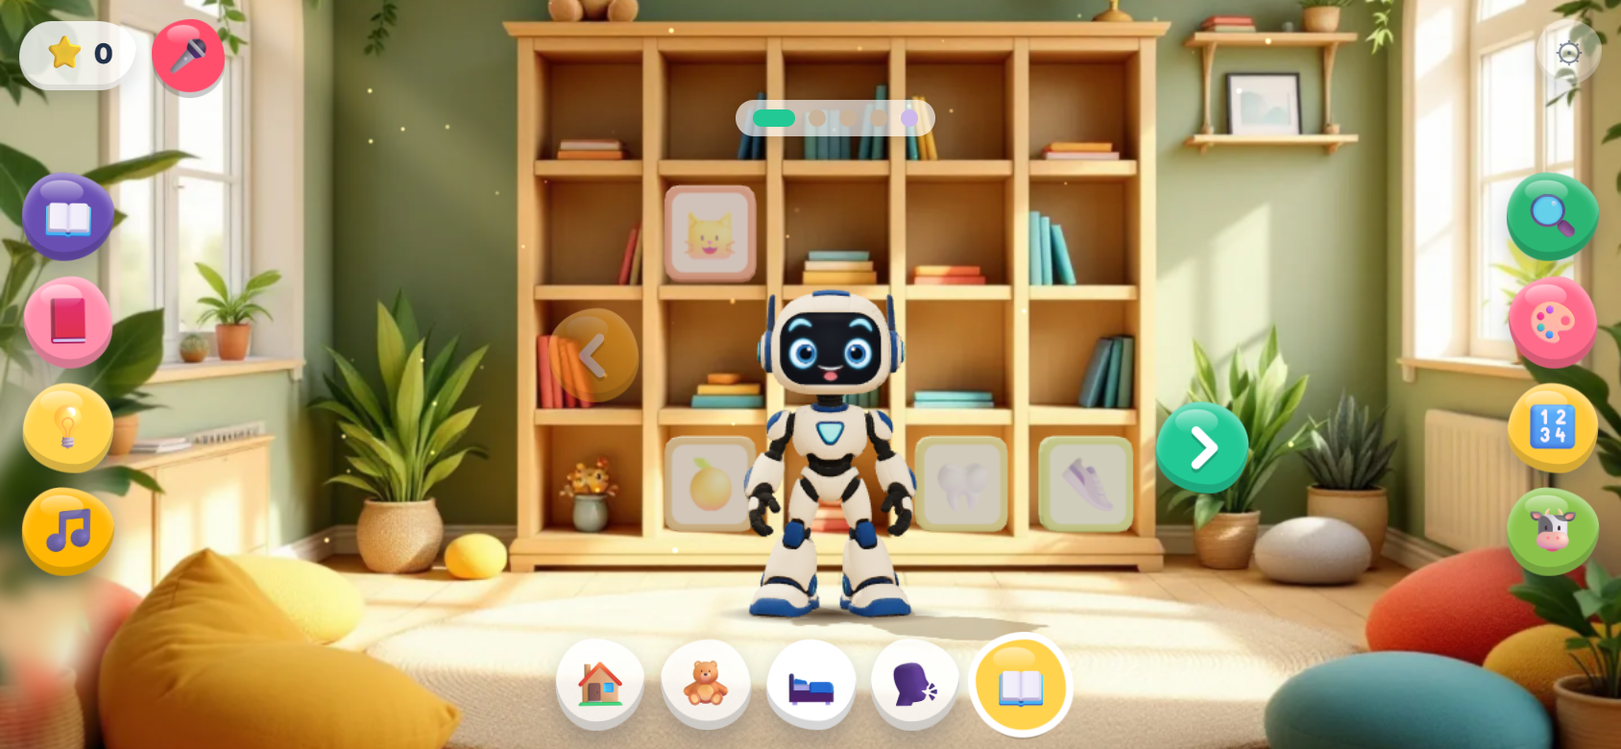
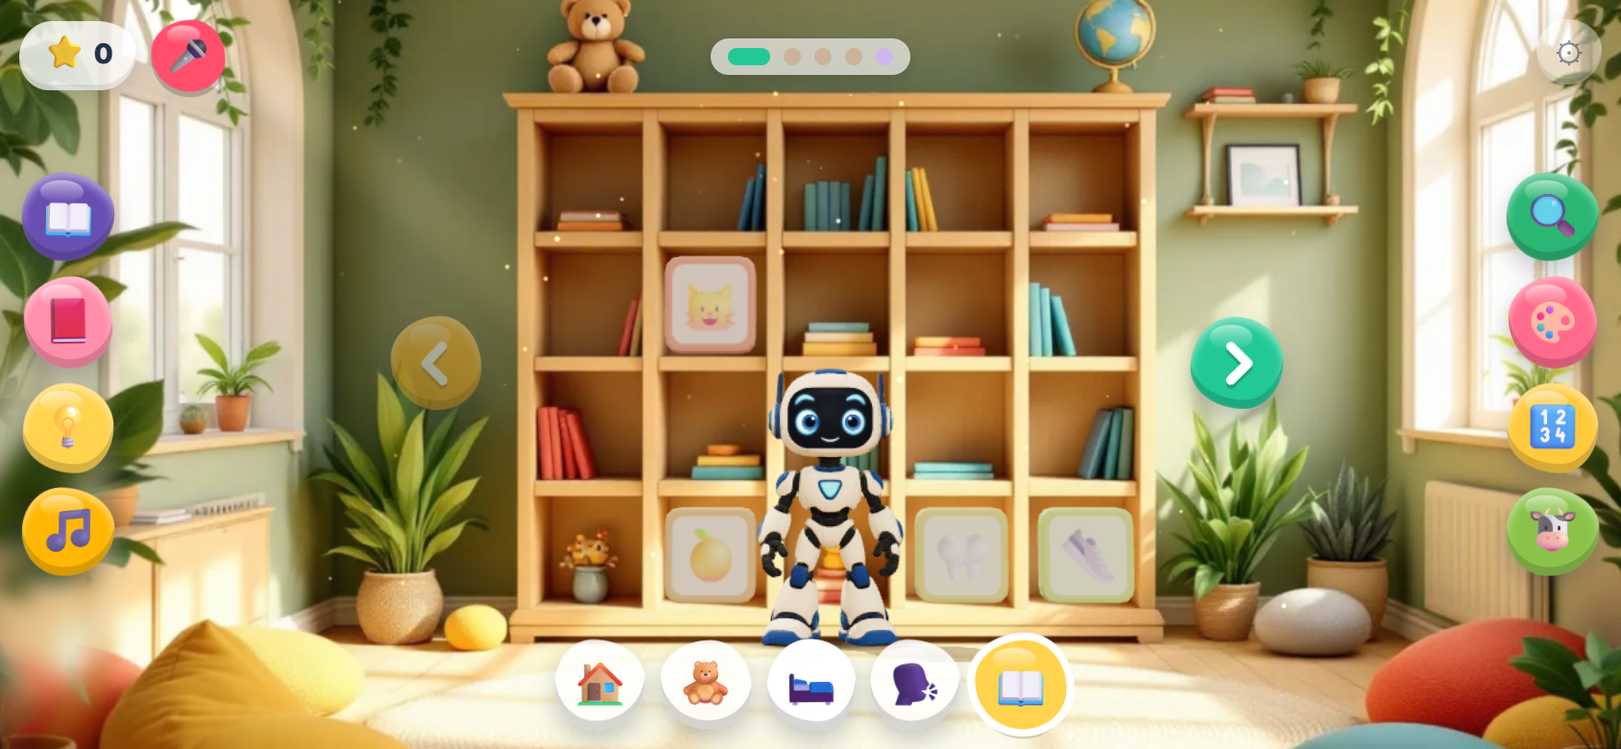
Painted library: page buttons clear of shelf and Googoo, dots in the top row, sideways teddy in view, book taps >= 46 px

diff --git a/index.html b/index.html
@@ -138,8 +138,8 @@ body.jelly .rb.jtap,body.jelly .ec.nav.jtap{animation:jtap .35s cubic-bezier(.3,
 @keyframes jtap{0%{transform:scale(1)}22%{transform:scale(.88,.84)}48%{transform:scale(1.1,1.05)}68%{transform:scale(.96,1.02)}85%{transform:scale(1.02,.99)}100%{transform:scale(1)}}
 @media (prefers-reduced-motion:reduce){body.jelly .rb,body.jelly .ec.nav,body.jelly .rb.jtap,body.jelly .ec.nav.jtap{animation:none}}
 /* painted rooms: shelf pages (jelly prev/next + dots beside the painted shelf), a blurred foreground crop of the painting at a screen corner */
-.pg{position:fixed;z-index:3;width:calc(var(--b)*.92);height:calc(var(--b)*.92)}.pg svg{width:55%;height:55%;filter:drop-shadow(0 2px 0 #0003)}
-#pgPrev{background:#ffae1f}#pgNext{background:#22c995}
+.pg{position:fixed;z-index:3;width:max(48px,calc(var(--b)*.92));height:max(48px,calc(var(--b)*.92))}.pg svg{width:55%;height:55%;filter:drop-shadow(0 2px 0 #0003)}
+#pgPrev,#pgNext{position:fixed}#pgPrev{background:#ffae1f}#pgNext{background:#22c995} /* fixed even as jelly blobs (body.jelly .rb is relative) */
 #pgDots{position:fixed;z-index:3;display:flex;gap:7px;padding:5px 9px;border-radius:20px;background:#ffffffa6;box-shadow:0 3px 8px #0002;transform:translateX(-50%);pointer-events:none}
 #pgDots i{width:9px;height:9px;border-radius:50%;background:#c9b49b;transition:width .3s,background .3s}#pgDots i.st{background:#cdb8ec}#pgDots i.on{width:22px;border-radius:6px;background:#22c995}#pgDots i.st.on{background:#a66cff}
 #pFg{position:fixed;z-index:1;pointer-events:none;background-repeat:no-repeat;filter:blur(6px) saturate(1.05) brightness(.92);transition:opacity .4s,filter .6s;will-change:transform;
@@ -1493,15 +1493,15 @@ function roomLayout(s){const W=WALLS[s]||{},hx=n=>'#'+n.toString(16).padStart(6,
 // Per picture, u,v = 0..1 of the picture from its top left: img, size [w,h] px, focus [u,v] (kept in view when the screen crops it: COVER fit, never bars),
 // fov (the painting's vertical field of view, degrees), horizon v (eye level: where the floor vanishes), wall v (where the back wall meets the floor: the shelf's depth),
 // goo [u,v,h] (his feet, his height as a part of the picture's height): with the horizon this sets the camera (height, tilt, distance) so the 3D floor lies on the painted one;
-// rug [u,v,ru,rv] (ellipse: the ball stays on it and in view), cells [[u0,v0,u1,v1]] (library: EMPTY shelf compartments, a book fills each), place {id:[u,v]} (3D props on the painted floor),
+// rug [u,v,ru,rv] (ellipse: the ball stays on it and in view), shelf [u0,v0,u1,v1] (library: the painted shelf, the ‹ › keep off it), cells [[u0,v0,u1,v1]] (library: EMPTY shelf compartments, a book fills each), place {id:[u,v]} (3D props on the painted floor),
 // light {sun:[colour,strength],dir:[x,y,z] from Googoo,hemi:[sky,ground,strength],fill:[colour,strength],shadow,exp}, beam [u,v,angle°,width,length,strength] (soft sunbeam),
 // dust [u0,v0,u1,v1] (sparkles), fg {crop:[u0,v0,u1,v1],at:'tl'|'tr'|'bl'|'br',h} (that crop, blurred, at a screen corner), lamps [[u,v,r]] (night glows), taps [{r:[u0,v0,u1,v1],w:'w_car'}]
 const PAINT={
-  library:{keep:[],portrait:{img:'assets/rooms/library_portrait.webp',size:[1056,1440],focus:[.519,.6],dots:[.519,.362],fov:50,horizon:.545,wall:.733,goo:[.5,.893,.24],rug:[.483,.838,.402,.078],
+  library:{keep:[],portrait:{img:'assets/rooms/library_portrait.webp',size:[1056,1440],focus:[.519,.6],shelf:[.3,.364,.729,.735],fov:50,horizon:.545,wall:.733,goo:[.5,.893,.24],rug:[.483,.838,.402,.078],
       cells:[[.456,.436,.573,.494],[.587,.436,.701,.494],[.336,.503,.443,.568],[.456,.503,.573,.568],[.336,.576,.443,.644],[.456,.576,.573,.644],[.587,.576,.701,.644]],
       light:{sun:['#ffd49a',1.35],dir:[-4,9,-3],hemi:['#fff1dc','#9a6a45',.7],fill:['#ffe6c8',.55],shadow:.38,exp:.95},beam:[.03,.27,52,.05,.95,.1],dust:[.18,.25,.85,.78],
       fg:{crop:[0,.06,.17,.44],at:'tl',h:.4},lamps:[[.22,.036,.06],[.79,.036,.06],[.27,.122,.05],[.739,.122,.05]]},
-    landscape:{img:'assets/rooms/library_landscape.webp',size:[1440,1056],focus:[.515,.6],fov:50,horizon:.62,wall:.762,goo:[.512,.8,.27],dots:[.515,.303],rug:[.531,.839,.309,.08],
+    landscape:{img:'assets/rooms/library_landscape.webp',size:[1440,1056],focus:[.515,.54],shelf:[.312,.303,.72,.758],fov:50,horizon:.62,wall:.762,goo:[.512,.766,.23],rug:[.531,.839,.309,.08],
       cells:[[.406,.434,.472,.526],[.406,.642,.472,.734],[.559,.642,.625,.734],[.635,.642,.701,.734]],
       light:{sun:['#ffd49a',1.35],dir:[-4,9,-3],hemi:['#fff1dc','#9a6a45',.7],fill:['#ffe6c8',.55],shadow:.38,exp:.95},beam:[.07,.18,40,.05,.9,.09],dust:[.2,.2,.8,.75],
       fg:{crop:[0,.42,.12,.92],at:'bl',h:.75},lamps:[]}},
@@ -1587,7 +1587,7 @@ function paintFrame(){const P=pOf(curRoom),key=P?curRoom+'|'+(portrait?'p':'l')+
   const keep=(PAINT[curRoom]||{}).keep||[];for(const id of keep){const g=furnById(id);if(!g)continue;const pl=(P.place||{})[id],p=pl&&onFloor(...S(pl[0],pl[1]));if(p){g.position.x=p.x;g.position.z=p.z}
     if(g.userData.m)g.userData.m.traverse(o=>{if(o.isMesh)o.castShadow=true})}
   // library: the empty compartments as rectangles on the wall plane (the books stand in them)
-  if(curRoom==='library'&&P.cells){PW.cells=P.cells.map(([u0,v0,u1,v1])=>{const a=onZ(...S(u0,v1),Zw),b=onZ(...S(u1,v0),Zw);return {x:(a.x+b.x)/2,y0:a.y,w:b.x-a.x,h:b.y-a.y,z:Zw}});
+  if(curRoom==='library'&&P.cells){PW.cells=P.cells.map(([u0,v0,u1,v1])=>{const a=onZ(...S(u0,v1),Zw),b=onZ(...S(u1,v0),Zw);return {x:(a.x+b.x)/2,y0:a.y,w:b.x-a.x,h:b.y-a.y,z:Zw,k:[Math.max(.98,46/((u1-u0)*pw)),Math.max(.98,46/((v1-v0)*ph))]}});
     const xs=P.cells.flatMap(c=>[c[0],c[2]]),ys=P.cells.flatMap(c=>[c[1],c[3]]),l=onZ(...S(Math.min(...xs),Math.max(...ys)),Zw),r=onZ(...S(Math.max(...xs),Math.max(...ys)),Zw);
     PW.shelf=[l.x-(r.x-l.x)*.02,r.x+(r.x-l.x)*.02];PW.box=[S(Math.min(...xs),Math.min(...ys)),S(Math.max(...xs),Math.max(...ys))];paintPagesCalc();paintBooks()}
   const pb=PW.anc.clone().project(camera);PW.wb=[(pb.x+1)/2*w,(1-pb.y)/2*h];PW.dist=PW.anc.distanceTo(camera.position);
@@ -1607,7 +1607,7 @@ function paintPagesCalc(){const A=libAssign(),n=Math.max(1,PW.cells.length),pg=[
 const _z0=new THREE.Matrix4().makeScale(0,0,0),_pm=new THREE.Matrix4(),_ps=V3();
 function paintBookSet(p,dx){(libPages[p]||[]).forEach((key,j)=>{const c=PW.cells[j],i=libIdx[key];if(!c||i===undefined)return;
   const bh=c.h*.86,bw=Math.min(c.w*.84,bh*1.02),bt=bw*.24,P=POSE[i]||(POSE[i]={p:V3(),q:new THREE.Quaternion(),bw:0,bh:0,bt:0});P.bw=bw;P.bh=bh;P.bt=bt;P.p.set(c.x+dx,c.y0+c.h*.035+bh/2,c.z+bt/2+.02);libPose[i]=P;
-  if(!libSlide)libHit.setMatrixAt(i,_pm.compose(_ps.set(c.x,c.y0+c.h/2,c.z+bt/2),P.q,_pv.set(c.w*.98,c.h*.98,bt*1.5))); // tap box = the whole compartment
+  if(!libSlide)libHit.setMatrixAt(i,_pm.compose(_ps.set(c.x,c.y0+c.h/2,c.z+bt/2),P.q,_pv.set(c.w*c.k[0],c.h*c.k[1],bt*1.5))); // tap box = the whole compartment, at least 46 px
   if(i!==libHide)libMesh.setMatrixAt(i,_pm.compose(P.p,P.q,_ps.set(bw,bh,bt)))})}
 function paintBooks(){if(!libMesh||!paintLib())return;for(let i=0;i<libItems.length;i++){libMesh.setMatrixAt(i,_z0);if(!libSlide)libHit.setMatrixAt(i,_z0)}libPose=[];
   if(libSlide){const e=libSlide.e,W=(PW.shelf[1]-PW.shelf[0])*1.08;paintBookSet(libSlide.from,-libSlide.dir*W*e);paintBookSet(libPage,libSlide.dir*W*(1-e))}else paintBookSet(libPage,0);
@@ -1615,14 +1615,15 @@ function paintBooks(){if(!libMesh||!paintLib())return;for(let i=0;i<libItems.len
 function paintPage(n,instant){if(!paintLib()||libSlide||n<0||n>=libPages.length||n===libPage)return;const from=libPage;libPage=n;
   if(!instant){libSlide={from,dir:n>from?1:-1,t0:performance.now(),e:0};clipL.constant=-PW.shelf[0];clipR.constant=PW.shelf[1];SFX.beep()}paintBooks();paintUI()}
 function paintShow(i){const it=libItems[i];if(!it||!paintLib())return;libSel=i;const p=libPages.findIndex(pg=>pg.includes(it.key));if(p>=0&&p!==libPage){libSlide=null;libPage=p;clipL.constant=clipR.constant=1e6;paintBooks();paintUI()}}
-// jelly prev/next beside the shelf (inside the rails), dots above it; only on the shelf screen
+// jelly prev/next beside the painted shelf at mid-height (room inside the rails), else low at the screen sides above the tabs; dots in the top row (score .. parent button)
 function paintUI(){const on=paintLib()&&scr==='library'&&deck.hidden&&libPages.length>1&&!pagePic;pgPrev.hidden=pgNext.hidden=pgDots.hidden=!on;if(!on)return;
-  const [[x0,y0],[x1,y1]]=PW.box,bs=pgPrev.offsetWidth||44,sf=safeIns(),rl=document.getElementById('colL').getBoundingClientRect(),rr=document.getElementById('colR').getBoundingClientRect(),
-    cl=(v,a,b)=>Math.max(a,Math.min(b,v)),side=x0-bs-10>(rl.right||sf.l)+6&&x1+bs+10<(rr.left||innerWidth-sf.r)-6, // room beside the shelf? else just under its sides
-    yb=side?(y0+y1)/2-bs/2:Math.max(y1+8,PW.S(0,PNT.wall||0)[1]-bs*.7);
-  pgPrev.style.left=cl(side?x0-bs-10:x0,sf.l+4,innerWidth-sf.r-bs-4)+'px';pgNext.style.left=cl(side?x1+10:x1-bs,sf.l+4,innerWidth-sf.r-bs-4)+'px';pgPrev.style.top=pgNext.style.top=yb+'px';
+  const [[x0,y0],[x1,y1]]=PNT.shelf?[PW.S(PNT.shelf[0],PNT.shelf[1]),PW.S(PNT.shelf[2],PNT.shelf[3])]:PW.box,bs=pgPrev.offsetWidth||48,sf=safeIns(),W=innerWidth,
+    rl=document.getElementById('colL').getBoundingClientRect(),rr=document.getElementById('colR').getBoundingClientRect(),nt=document.getElementById('nav').getBoundingClientRect().top||innerHeight,
+    side=x0-bs-12>(rl.right||sf.l)+6&&x1+bs+12<(rr.left||W-sf.r)-6;
+  pgPrev.style.left=(side?x0-bs-12:sf.l+12)+'px';pgNext.style.left=(side?x1+12:W-sf.r-12-bs)+'px';pgPrev.style.top=pgNext.style.top=(side?(y0+y1)/2-bs/2:nt-bs-14)+'px';
   pgPrev.style.opacity=libPage>0?1:.45;pgNext.style.opacity=libPage<libPages.length-1?1:.45;
-  const dp=PNT.dots?PW.S(PNT.dots[0],PNT.dots[1]):[(x0+x1)/2,y0-30];pgDots.style.left=dp[0]+'px';pgDots.style.top=Math.max(sf.t+52,dp[1]-10)+'px';[...pgDots.children].forEach((d,i)=>d.classList.toggle('on',i===libPage))}
+  const tp=document.getElementById('top').getBoundingClientRect(),dw=pgDots.offsetWidth;pgDots.style.left=Math.max(W/2,tp.right+10+dw/2)+'px';pgDots.style.top=(tp.top+tp.height/2-pgDots.offsetHeight/2)+'px';
+  [...pgDots.children].forEach((d,i)=>d.classList.toggle('on',i===libPage))}
 pgPrev.onclick=()=>{st.lastPoke=performance.now();paintPage(libPage-1)};pgNext.onclick=()=>{st.lastPoke=performance.now();paintPage(libPage+1)};
 // a tap on the painting: a painted toy says its word (play room), if there is a clip for it
 function paintTap(x,y){if(!PNT||!PW||!PW.taps.length)return false;const z=pU.uZ.value,T=pU.uT.value,M=pU.uM.value,u=(T.x+(x-T.z)/z-M.x)/M.z,v=(T.y+(y-T.w)/z-M.y)/M.w;

diff --git a/src_pash-robot.html b/src_pash-robot.html
@@ -137,8 +137,8 @@ body.jelly .rb.jtap,body.jelly .ec.nav.jtap{animation:jtap .35s cubic-bezier(.3,
 @keyframes jtap{0%{transform:scale(1)}22%{transform:scale(.88,.84)}48%{transform:scale(1.1,1.05)}68%{transform:scale(.96,1.02)}85%{transform:scale(1.02,.99)}100%{transform:scale(1)}}
 @media (prefers-reduced-motion:reduce){body.jelly .rb,body.jelly .ec.nav,body.jelly .rb.jtap,body.jelly .ec.nav.jtap{animation:none}}
 /* painted rooms: shelf pages (jelly prev/next + dots beside the painted shelf), a blurred foreground crop of the painting at a screen corner */
-.pg{position:fixed;z-index:3;width:calc(var(--b)*.92);height:calc(var(--b)*.92)}.pg svg{width:55%;height:55%;filter:drop-shadow(0 2px 0 #0003)}
-#pgPrev{background:#ffae1f}#pgNext{background:#22c995}
+.pg{position:fixed;z-index:3;width:max(48px,calc(var(--b)*.92));height:max(48px,calc(var(--b)*.92))}.pg svg{width:55%;height:55%;filter:drop-shadow(0 2px 0 #0003)}
+#pgPrev,#pgNext{position:fixed}#pgPrev{background:#ffae1f}#pgNext{background:#22c995} /* fixed even as jelly blobs (body.jelly .rb is relative) */
 #pgDots{position:fixed;z-index:3;display:flex;gap:7px;padding:5px 9px;border-radius:20px;background:#ffffffa6;box-shadow:0 3px 8px #0002;transform:translateX(-50%);pointer-events:none}
 #pgDots i{width:9px;height:9px;border-radius:50%;background:#c9b49b;transition:width .3s,background .3s}#pgDots i.st{background:#cdb8ec}#pgDots i.on{width:22px;border-radius:6px;background:#22c995}#pgDots i.st.on{background:#a66cff}
 #pFg{position:fixed;z-index:1;pointer-events:none;background-repeat:no-repeat;filter:blur(6px) saturate(1.05) brightness(.92);transition:opacity .4s,filter .6s;will-change:transform;
@@ -1492,15 +1492,15 @@ function roomLayout(s){const W=WALLS[s]||{},hx=n=>'#'+n.toString(16).padStart(6,
 // Per picture, u,v = 0..1 of the picture from its top left: img, size [w,h] px, focus [u,v] (kept in view when the screen crops it: COVER fit, never bars),
 // fov (the painting's vertical field of view, degrees), horizon v (eye level: where the floor vanishes), wall v (where the back wall meets the floor: the shelf's depth),
 // goo [u,v,h] (his feet, his height as a part of the picture's height): with the horizon this sets the camera (height, tilt, distance) so the 3D floor lies on the painted one;
-// rug [u,v,ru,rv] (ellipse: the ball stays on it and in view), cells [[u0,v0,u1,v1]] (library: EMPTY shelf compartments, a book fills each), place {id:[u,v]} (3D props on the painted floor),
+// rug [u,v,ru,rv] (ellipse: the ball stays on it and in view), shelf [u0,v0,u1,v1] (library: the painted shelf, the ‹ › keep off it), cells [[u0,v0,u1,v1]] (library: EMPTY shelf compartments, a book fills each), place {id:[u,v]} (3D props on the painted floor),
 // light {sun:[colour,strength],dir:[x,y,z] from Googoo,hemi:[sky,ground,strength],fill:[colour,strength],shadow,exp}, beam [u,v,angle°,width,length,strength] (soft sunbeam),
 // dust [u0,v0,u1,v1] (sparkles), fg {crop:[u0,v0,u1,v1],at:'tl'|'tr'|'bl'|'br',h} (that crop, blurred, at a screen corner), lamps [[u,v,r]] (night glows), taps [{r:[u0,v0,u1,v1],w:'w_car'}]
 const PAINT={
-  library:{keep:[],portrait:{img:'assets/rooms/library_portrait.webp',size:[1056,1440],focus:[.519,.6],dots:[.519,.362],fov:50,horizon:.545,wall:.733,goo:[.5,.893,.24],rug:[.483,.838,.402,.078],
+  library:{keep:[],portrait:{img:'assets/rooms/library_portrait.webp',size:[1056,1440],focus:[.519,.6],shelf:[.3,.364,.729,.735],fov:50,horizon:.545,wall:.733,goo:[.5,.893,.24],rug:[.483,.838,.402,.078],
       cells:[[.456,.436,.573,.494],[.587,.436,.701,.494],[.336,.503,.443,.568],[.456,.503,.573,.568],[.336,.576,.443,.644],[.456,.576,.573,.644],[.587,.576,.701,.644]],
       light:{sun:['#ffd49a',1.35],dir:[-4,9,-3],hemi:['#fff1dc','#9a6a45',.7],fill:['#ffe6c8',.55],shadow:.38,exp:.95},beam:[.03,.27,52,.05,.95,.1],dust:[.18,.25,.85,.78],
       fg:{crop:[0,.06,.17,.44],at:'tl',h:.4},lamps:[[.22,.036,.06],[.79,.036,.06],[.27,.122,.05],[.739,.122,.05]]},
-    landscape:{img:'assets/rooms/library_landscape.webp',size:[1440,1056],focus:[.515,.6],fov:50,horizon:.62,wall:.762,goo:[.512,.8,.27],dots:[.515,.303],rug:[.531,.839,.309,.08],
+    landscape:{img:'assets/rooms/library_landscape.webp',size:[1440,1056],focus:[.515,.54],shelf:[.312,.303,.72,.758],fov:50,horizon:.62,wall:.762,goo:[.512,.766,.23],rug:[.531,.839,.309,.08],
       cells:[[.406,.434,.472,.526],[.406,.642,.472,.734],[.559,.642,.625,.734],[.635,.642,.701,.734]],
       light:{sun:['#ffd49a',1.35],dir:[-4,9,-3],hemi:['#fff1dc','#9a6a45',.7],fill:['#ffe6c8',.55],shadow:.38,exp:.95},beam:[.07,.18,40,.05,.9,.09],dust:[.2,.2,.8,.75],
       fg:{crop:[0,.42,.12,.92],at:'bl',h:.75},lamps:[]}},
@@ -1586,7 +1586,7 @@ function paintFrame(){const P=pOf(curRoom),key=P?curRoom+'|'+(portrait?'p':'l')+
   const keep=(PAINT[curRoom]||{}).keep||[];for(const id of keep){const g=furnById(id);if(!g)continue;const pl=(P.place||{})[id],p=pl&&onFloor(...S(pl[0],pl[1]));if(p){g.position.x=p.x;g.position.z=p.z}
     if(g.userData.m)g.userData.m.traverse(o=>{if(o.isMesh)o.castShadow=true})}
   // library: the empty compartments as rectangles on the wall plane (the books stand in them)
-  if(curRoom==='library'&&P.cells){PW.cells=P.cells.map(([u0,v0,u1,v1])=>{const a=onZ(...S(u0,v1),Zw),b=onZ(...S(u1,v0),Zw);return {x:(a.x+b.x)/2,y0:a.y,w:b.x-a.x,h:b.y-a.y,z:Zw}});
+  if(curRoom==='library'&&P.cells){PW.cells=P.cells.map(([u0,v0,u1,v1])=>{const a=onZ(...S(u0,v1),Zw),b=onZ(...S(u1,v0),Zw);return {x:(a.x+b.x)/2,y0:a.y,w:b.x-a.x,h:b.y-a.y,z:Zw,k:[Math.max(.98,46/((u1-u0)*pw)),Math.max(.98,46/((v1-v0)*ph))]}});
     const xs=P.cells.flatMap(c=>[c[0],c[2]]),ys=P.cells.flatMap(c=>[c[1],c[3]]),l=onZ(...S(Math.min(...xs),Math.max(...ys)),Zw),r=onZ(...S(Math.max(...xs),Math.max(...ys)),Zw);
     PW.shelf=[l.x-(r.x-l.x)*.02,r.x+(r.x-l.x)*.02];PW.box=[S(Math.min(...xs),Math.min(...ys)),S(Math.max(...xs),Math.max(...ys))];paintPagesCalc();paintBooks()}
   const pb=PW.anc.clone().project(camera);PW.wb=[(pb.x+1)/2*w,(1-pb.y)/2*h];PW.dist=PW.anc.distanceTo(camera.position);
@@ -1606,7 +1606,7 @@ function paintPagesCalc(){const A=libAssign(),n=Math.max(1,PW.cells.length),pg=[
 const _z0=new THREE.Matrix4().makeScale(0,0,0),_pm=new THREE.Matrix4(),_ps=V3();
 function paintBookSet(p,dx){(libPages[p]||[]).forEach((key,j)=>{const c=PW.cells[j],i=libIdx[key];if(!c||i===undefined)return;
   const bh=c.h*.86,bw=Math.min(c.w*.84,bh*1.02),bt=bw*.24,P=POSE[i]||(POSE[i]={p:V3(),q:new THREE.Quaternion(),bw:0,bh:0,bt:0});P.bw=bw;P.bh=bh;P.bt=bt;P.p.set(c.x+dx,c.y0+c.h*.035+bh/2,c.z+bt/2+.02);libPose[i]=P;
-  if(!libSlide)libHit.setMatrixAt(i,_pm.compose(_ps.set(c.x,c.y0+c.h/2,c.z+bt/2),P.q,_pv.set(c.w*.98,c.h*.98,bt*1.5))); // tap box = the whole compartment
+  if(!libSlide)libHit.setMatrixAt(i,_pm.compose(_ps.set(c.x,c.y0+c.h/2,c.z+bt/2),P.q,_pv.set(c.w*c.k[0],c.h*c.k[1],bt*1.5))); // tap box = the whole compartment, at least 46 px
   if(i!==libHide)libMesh.setMatrixAt(i,_pm.compose(P.p,P.q,_ps.set(bw,bh,bt)))})}
 function paintBooks(){if(!libMesh||!paintLib())return;for(let i=0;i<libItems.length;i++){libMesh.setMatrixAt(i,_z0);if(!libSlide)libHit.setMatrixAt(i,_z0)}libPose=[];
   if(libSlide){const e=libSlide.e,W=(PW.shelf[1]-PW.shelf[0])*1.08;paintBookSet(libSlide.from,-libSlide.dir*W*e);paintBookSet(libPage,libSlide.dir*W*(1-e))}else paintBookSet(libPage,0);
@@ -1614,14 +1614,15 @@ function paintBooks(){if(!libMesh||!paintLib())return;for(let i=0;i<libItems.len
 function paintPage(n,instant){if(!paintLib()||libSlide||n<0||n>=libPages.length||n===libPage)return;const from=libPage;libPage=n;
   if(!instant){libSlide={from,dir:n>from?1:-1,t0:performance.now(),e:0};clipL.constant=-PW.shelf[0];clipR.constant=PW.shelf[1];SFX.beep()}paintBooks();paintUI()}
 function paintShow(i){const it=libItems[i];if(!it||!paintLib())return;libSel=i;const p=libPages.findIndex(pg=>pg.includes(it.key));if(p>=0&&p!==libPage){libSlide=null;libPage=p;clipL.constant=clipR.constant=1e6;paintBooks();paintUI()}}
-// jelly prev/next beside the shelf (inside the rails), dots above it; only on the shelf screen
+// jelly prev/next beside the painted shelf at mid-height (room inside the rails), else low at the screen sides above the tabs; dots in the top row (score .. parent button)
 function paintUI(){const on=paintLib()&&scr==='library'&&deck.hidden&&libPages.length>1&&!pagePic;pgPrev.hidden=pgNext.hidden=pgDots.hidden=!on;if(!on)return;
-  const [[x0,y0],[x1,y1]]=PW.box,bs=pgPrev.offsetWidth||44,sf=safeIns(),rl=document.getElementById('colL').getBoundingClientRect(),rr=document.getElementById('colR').getBoundingClientRect(),
-    cl=(v,a,b)=>Math.max(a,Math.min(b,v)),side=x0-bs-10>(rl.right||sf.l)+6&&x1+bs+10<(rr.left||innerWidth-sf.r)-6, // room beside the shelf? else just under its sides
-    yb=side?(y0+y1)/2-bs/2:Math.max(y1+8,PW.S(0,PNT.wall||0)[1]-bs*.7);
-  pgPrev.style.left=cl(side?x0-bs-10:x0,sf.l+4,innerWidth-sf.r-bs-4)+'px';pgNext.style.left=cl(side?x1+10:x1-bs,sf.l+4,innerWidth-sf.r-bs-4)+'px';pgPrev.style.top=pgNext.style.top=yb+'px';
+  const [[x0,y0],[x1,y1]]=PNT.shelf?[PW.S(PNT.shelf[0],PNT.shelf[1]),PW.S(PNT.shelf[2],PNT.shelf[3])]:PW.box,bs=pgPrev.offsetWidth||48,sf=safeIns(),W=innerWidth,
+    rl=document.getElementById('colL').getBoundingClientRect(),rr=document.getElementById('colR').getBoundingClientRect(),nt=document.getElementById('nav').getBoundingClientRect().top||innerHeight,
+    side=x0-bs-12>(rl.right||sf.l)+6&&x1+bs+12<(rr.left||W-sf.r)-6;
+  pgPrev.style.left=(side?x0-bs-12:sf.l+12)+'px';pgNext.style.left=(side?x1+12:W-sf.r-12-bs)+'px';pgPrev.style.top=pgNext.style.top=(side?(y0+y1)/2-bs/2:nt-bs-14)+'px';
   pgPrev.style.opacity=libPage>0?1:.45;pgNext.style.opacity=libPage<libPages.length-1?1:.45;
-  const dp=PNT.dots?PW.S(PNT.dots[0],PNT.dots[1]):[(x0+x1)/2,y0-30];pgDots.style.left=dp[0]+'px';pgDots.style.top=Math.max(sf.t+52,dp[1]-10)+'px';[...pgDots.children].forEach((d,i)=>d.classList.toggle('on',i===libPage))}
+  const tp=document.getElementById('top').getBoundingClientRect(),dw=pgDots.offsetWidth;pgDots.style.left=Math.max(W/2,tp.right+10+dw/2)+'px';pgDots.style.top=(tp.top+tp.height/2-pgDots.offsetHeight/2)+'px';
+  [...pgDots.children].forEach((d,i)=>d.classList.toggle('on',i===libPage))}
 pgPrev.onclick=()=>{st.lastPoke=performance.now();paintPage(libPage-1)};pgNext.onclick=()=>{st.lastPoke=performance.now();paintPage(libPage+1)};
 // a tap on the painting: a painted toy says its word (play room), if there is a clip for it
 function paintTap(x,y){if(!PNT||!PW||!PW.taps.length)return false;const z=pU.uZ.value,T=pU.uT.value,M=pU.uM.value,u=(T.x+(x-T.z)/z-M.x)/M.z,v=(T.y+(y-T.w)/z-M.y)/M.w;

diff --git a/sw.js b/sw.js
@@ -1,6 +1,6 @@
 // Googoo Robo service worker. tools/build.py rewrites the two versions below on every build:
 // a new page build = new shell cache, new/changed audio = new audio cache; old caches are deleted on activate.
-const SHELL_V='7fdebfaaa2',AUDIO_V='92904cdb22',SHELL='googoo-shell-'+SHELL_V,AUDIO='googoo-audio-'+AUDIO_V;
+const SHELL_V='6b7fb01e76',AUDIO_V='92904cdb22',SHELL='googoo-shell-'+SHELL_V,AUDIO='googoo-audio-'+AUDIO_V;
 const PRE=['./','manifest.webmanifest','icons/icon-192.png','icons/icon-512.png','icons/apple-touch-icon.png','audio/manifest.json','vocab/stories.json',
   'https://cdnjs.cloudflare.com/ajax/libs/three.js/r128/three.min.js',
   'https://cdn.jsdelivr.net/npm/three@0.128.0/examples/js/loaders/GLTFLoader.js',

diff --git a/docs/HANDOFF.md b/docs/HANDOFF.md
@@ -39,6 +39,7 @@
    - **Play room:** the ball stays on the front half of the painted rug, inside the screen and the side rails (`PW.rug` ellipse; bounces off its edge); throws start at the rug's side. Tap zones on painted toys say their word when a clip exists (`taps`: car, window, ball, teddy, chair; `paintTap`).
    - **Calibration (built-in, picture fractions):** library portrait focus [.519,.6], fov 50, horizon .545, wall .733, goo [.5,.893,.24], rug [.483,.838,.402,.078], 7 cells (r2c2, r2c3, r3c1, r3c2, r4c1-3); library landscape focus [.515,.6], horizon .62, wall .762, goo [.512,.8,.27], rug [.531,.839,.309,.08], 4 cells (r2c2, r4c2, r4c4, r4c5: the only empty ones); play portrait focus [.545,.6], horizon .44, wall .62, goo [.53,.73,.25], rug [.545,.717,.388,.072], teddy [.33,.75], cow [.75,.755]; play landscape focus [.5,.62], horizon .495, wall .585, goo [.507,.79,.3], rug [.507,.766,.372,.124]. Horizons were estimated from the rug's foreshortening (circle seen as ry/rx = sin of the view angle) with a 50° vertical fov, then checked by eye.
    - **Add a room painting:** make 3:4 and 4:3 pictures (≤ 1440 px long side) → `assets/rooms/<room>_portrait.webp` / `_landscape.webp` (PIL: `im.save(..., 'WEBP', quality=82, method=6)`); in Design mode, Painting tab: tick Painted room, pick the picture for each screen kind, drag the marks (feet onto the rug, eye level until his size and perspective look right, rug box, compartments), Save. For a room with no built-in entry, add `keep` (3D props that stay) and `light`/`beam`/`fg` by hand in layout.json (or in `PAINT`).
+   - **Library layout fixes (2026-10-25):** ‹ › sit beside the painted shelf at mid-height when there is room inside the rails (sideways, iPad), else low at the screen sides above the tabs (phones upright); calibration `shelf` [u0,v0,u1,v1] = the painted shelf's outline (falls back to the cells' box). `#pgPrev,#pgNext` are `position:fixed` (the jelly `.rb` rule had made them relative), ≥ 48 px. Page dots in the top row, centred between the score and the parent button (`dots` key gone). Sideways focus [.515,.54] and goo [.512,.766,.23] so the painted teddy shows; Googoo stands just in front of the shelf and is smaller (~38% of the height at 844x390): there is no room for both the teddy and his feet above the tabs otherwise. Book tap boxes ≥ 46 px (`cells[].k`), overlapping neighbours a little on 360x640. Shots `painted-library{,-land,-page2,-360,-ipad}.png`.
    - **Tests (real GPU, 2026-10-25):** 390x844, 360x640, 430x932, 844x390, 820x1180, day + night, both rooms: no bars, feet exactly on the calibrated point, Googoo 24-25% of the height upright (43-48% sideways, where the picture is cropped vertically), shadow on; paging, slide, book tap → face close-up → ear next → Back; ball stays on the rug and in view (14 samples each size); no-twitch idle library/play and sitting 0.000 mm / 10 s; GPU (phone): play 39 → 11 draw calls, 52 → 45 MB; library 22 → 8 calls, 42 → 38 MB; all screens ok. Shots `docs/layout-shots/painted-*.png`, `design-painted.png`.
    - **Honest notes:** Googoo sits well in the library (frontal picture, clear horizon); in the play room the painting is a 3/4 view, so the 3D floor is a level plane at one horizon and the toys at the rug's sides look right but far corners of the room would not; the sideways library crops the teddy on the shelf top; the foreground blur crop is a flat duplicate and reads more like a soft vignette than a near object; the face close-up blurs the magnified painting (accepted as depth of field). Painted toys that don't move aren't reachable by Googoo (he can't walk behind the painted furniture).
 2. **Engine: prototype both** web (three.js) and Unity with the same small scene: the Tripo robot in the bedroom, lamp on/off, tap to react and dance, one whispered line with the face screen. Waiting on the user: (a) Unity Hub is installed; they sign in, pick the Personal licence, install the LTS editor with Android Build Support; (b) then add Unity's official Claude Code plugin (Anthropic Directory "Unity", beta) and check whether it can drive the editor; (c) buy Tripo (US$28 for one month), re-generate the robot as **Private** with multi-view (front, side and back images in `Downloads\Pash 3D\`), Generate in Parts on, about 30k polygons, export **GLB** to `Downloads\Pash 3D\`. The first Tripo result (free plan, public) looked good; its face is painted on, so cover it with our animated canvas face screen. Animate the rigid parts in code (no skinning). Pro Refine (a human fix, about $10) is not needed yet.
